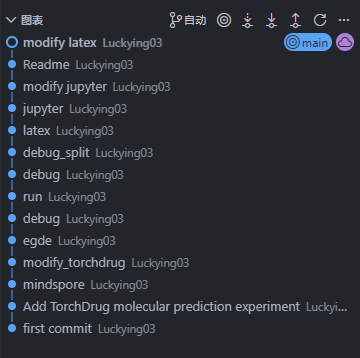
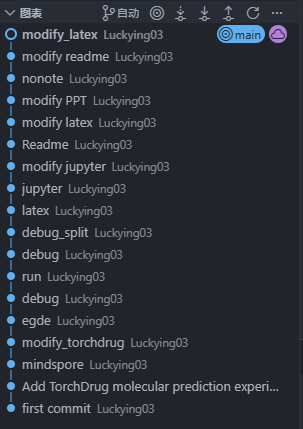
end

Changed region(s): [[0.0, 0.0, 0.9802, 0.9832]]

diff --git a/latex/main.tex b/latex/main.tex
@@ -298,7 +298,7 @@ attention = exp_score / (
 
 \begin{figure}[H]
   \centering
-  \includegraphics[width=0.82\textwidth]{figures/git.png}
+  \includegraphics[width=0.6\textwidth]{figures/git.png}
   \caption{项目 Git 版本管理截图}
   \label{fig:git}
 \end{figure}